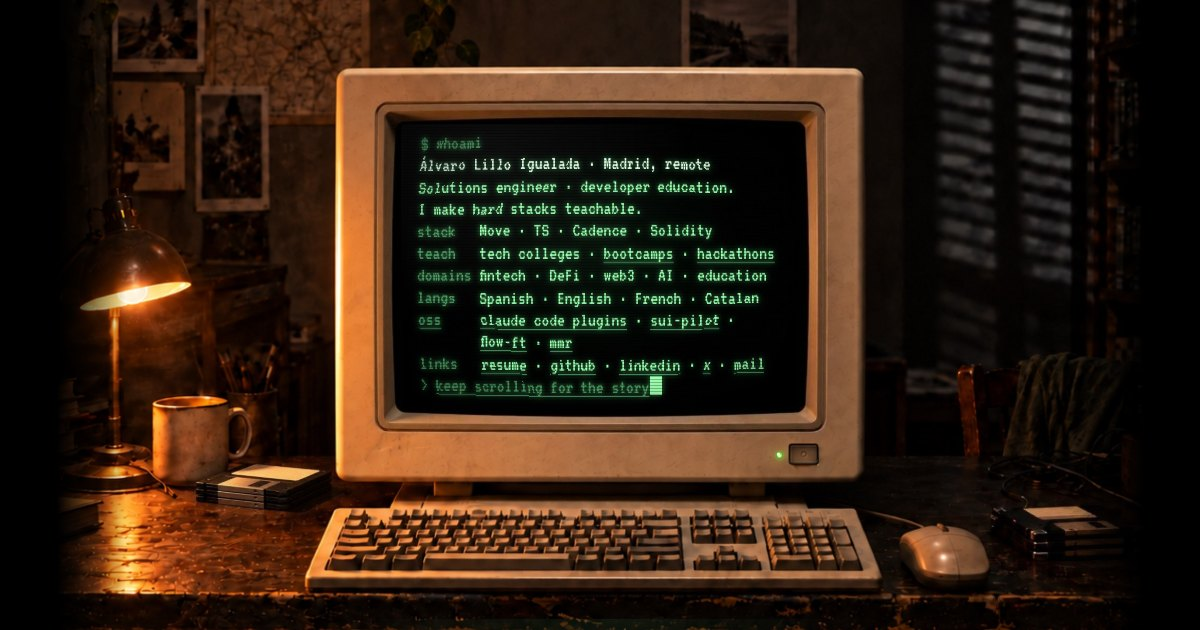
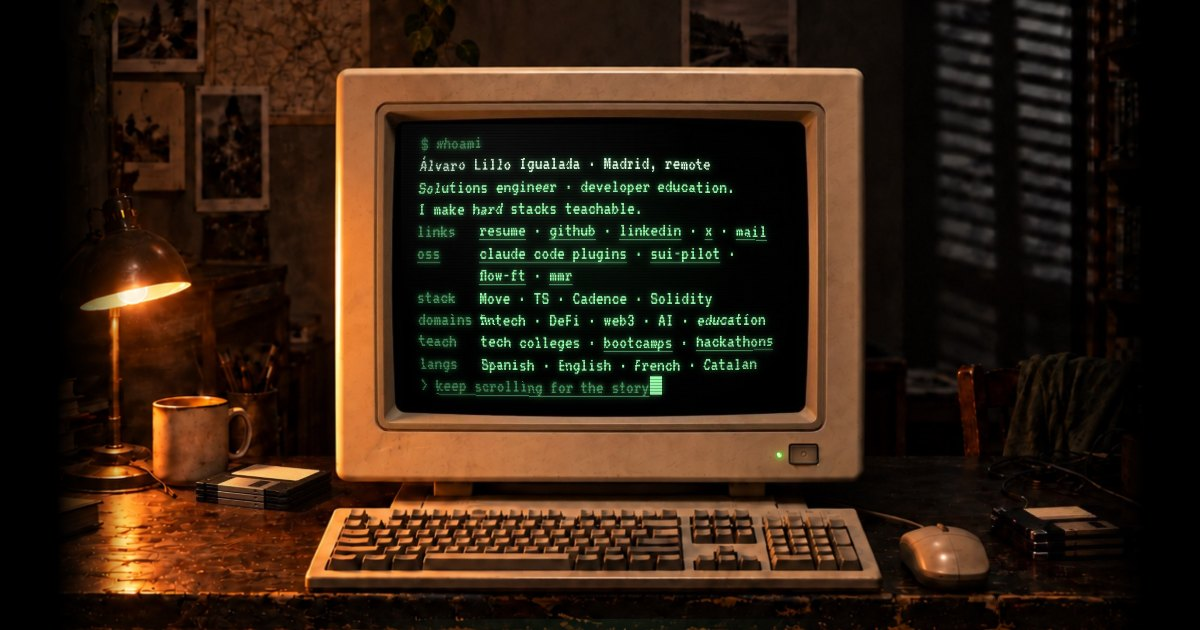
briefing: rows in order links, oss, stack, domains, teach, langs

Changed region(s): [[0.3392, 0.3317, 0.6475, 0.6032]]

diff --git a/site/index.html b/site/index.html
@@ -72,12 +72,12 @@
       <p class="hi">Álvaro Lillo Igualada · Madrid, remote</p>
       <p>Solutions engineer · developer education.</p>
       <p>I make hard stacks teachable.</p>
-      <div class="kv"><span class="k">stack</span><span>Move · TS · Cadence · Solidity</span></div>
-      <div class="kv"><span class="k">teach</span><span>tech colleges · <a href="https://luma.com/8383yqqc">bootcamps</a> · <a href="https://www.youtube.com/watch?v=g0zjIF_lbdQ">hackathons</a></span></div>
-      <div class="kv"><span class="k">domains</span><span>fintech · DeFi · web3 · AI · education</span></div>
-      <div class="kv"><span class="k">langs</span><span>Spanish · English · French · Catalan</span></div>
-      <div class="kv"><span class="k"><a href="https://github.com/contract-hero">oss</a></span><span><a href="https://contract-hero.github.io/plugin-marketplace/">claude code plugins</a> · <a href="https://contract-hero.github.io/sui-pilot/">sui-pilot</a> ·<br><a href="https://github.com/onflow/flow-ft">flow-ft</a> · <a href="https://github.com/alilloig/merkle-mountain-range-contracts">mmr</a></span></div>
       <div class="kv"><span class="k">links</span><span><a href="resume.pdf">resume</a> · <a href="https://github.com/alilloig">github</a> · <a href="https://www.linkedin.com/in/alilloig">linkedin</a> · <a href="https://x.com/TheContractHero">x</a> · <a href="mailto:alilloig@gmail.com">mail</a></span></div>
+      <div class="kv"><span class="k"><a href="https://github.com/contract-hero">oss</a></span><span><a href="https://contract-hero.github.io/plugin-marketplace/">claude code plugins</a> · <a href="https://contract-hero.github.io/sui-pilot/">sui-pilot</a> ·<br><a href="https://github.com/onflow/flow-ft">flow-ft</a> · <a href="https://github.com/alilloig/merkle-mountain-range-contracts">mmr</a></span></div>
+      <div class="kv"><span class="k">stack</span><span>Move · TS · Cadence · Solidity</span></div>
+      <div class="kv"><span class="k">domains</span><span>fintech · DeFi · web3 · AI · education</span></div>
+      <div class="kv"><span class="k">teach</span><span>tech colleges · <a href="https://luma.com/8383yqqc">bootcamps</a> · <a href="https://www.youtube.com/watch?v=g0zjIF_lbdQ">hackathons</a></span></div>
+      <div class="kv"><span class="k">langs</span><span>Spanish · English · French · Catalan</span></div>
       <p class="dim">&gt; <a href="#engineer">keep scrolling for the story</a></p>
     </article>
 

diff --git a/profile/profile.md b/profile/profile.md
@@ -115,7 +115,7 @@ title and closes with one dim "earned:" line; the last one pays off the welcome 
 found"). No dates in the story: the résumé and LinkedIn carry the timeline. The parenting break is one clause
 without dates. The story sells how the engineering-educator profile was forged, not achievements; those stay
 on the résumé. The current role is worded as solutions engineer, web3 and AI; "forward deployed engineer" is
-not used. Briefing rows (2026-09-16): stack "Move · TS · Cadence · Solidity" (Rust stays on the résumé only);
+not used. Briefing rows, in screen order links, oss, stack, domains, teach, langs (order decided 2026-09-26; rows 2026-09-16): stack "Move · TS · Cadence · Solidity" (Rust stays on the résumé only);
 teach "tech colleges · bootcamps · hackathons" linking the Paris bootcamp Luma page
 (https://luma.com/8383yqqc, "Sui Bootcamp: Paris 2026", hosted with DeVinci Blockchain) and the ETHGlobal
 workshop video (https://www.youtube.com/watch?v=g0zjIF_lbdQ, "EVM x Sui | Alvaro Lillo | ETHGlobal");
